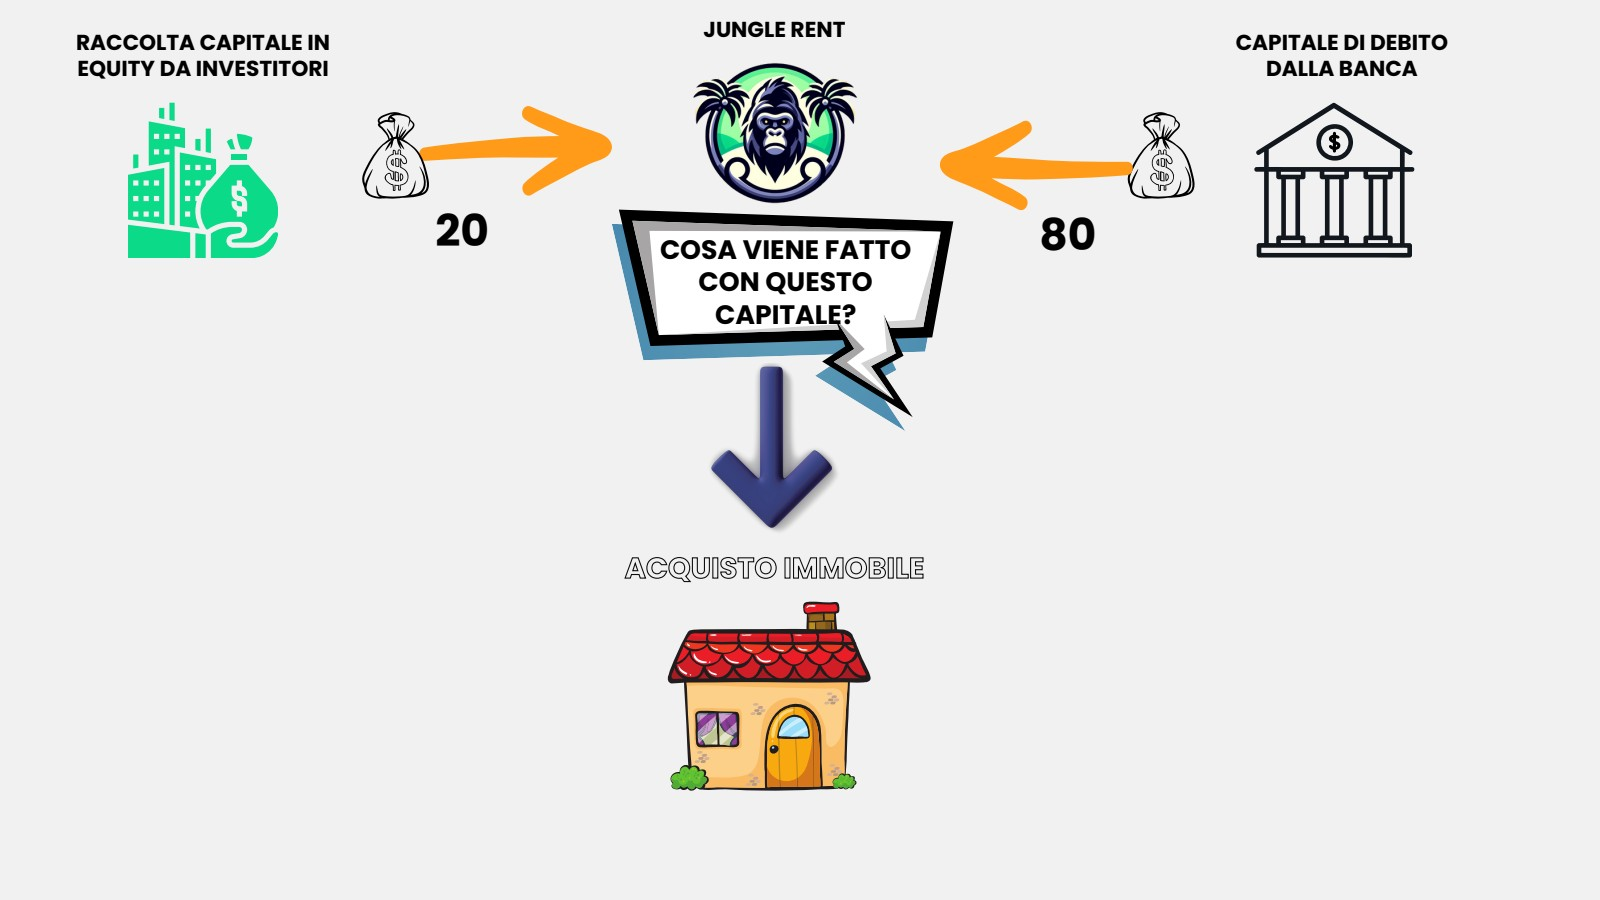
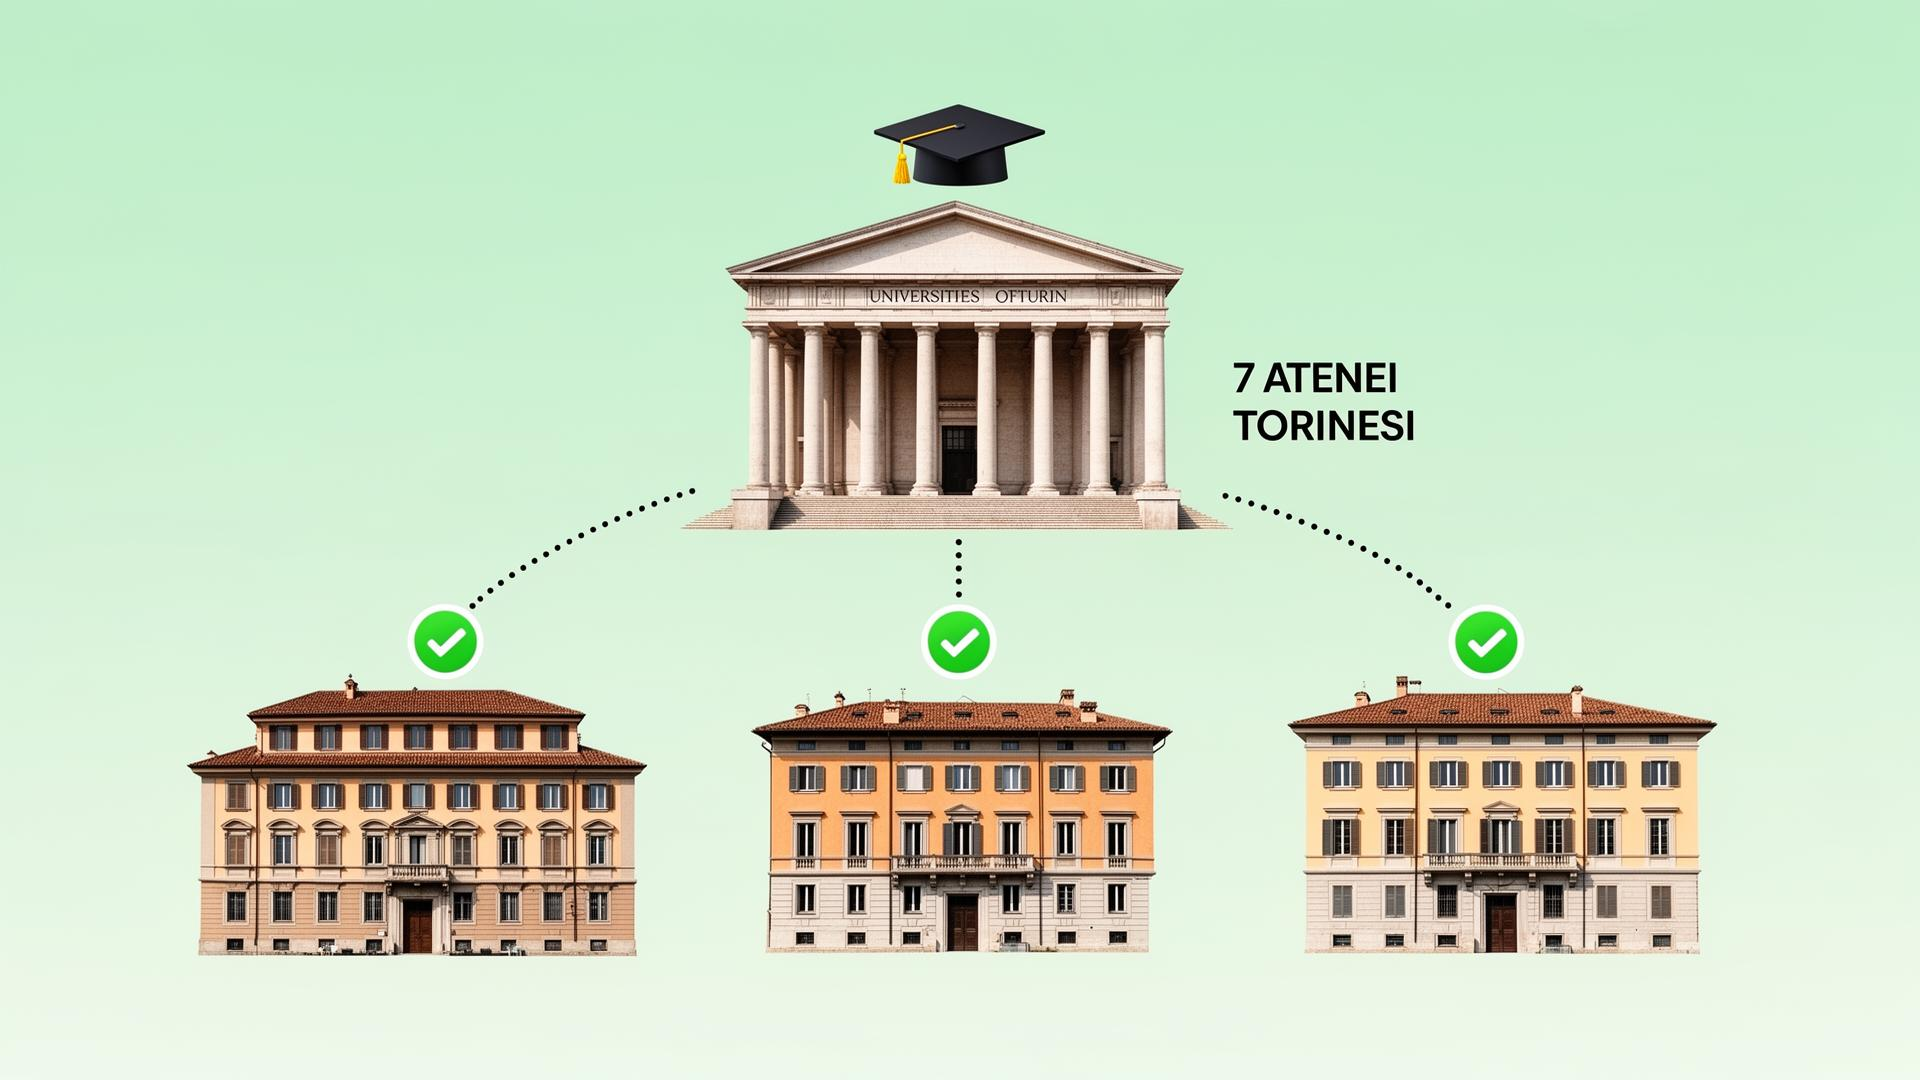
Changes

diff --git a/src/components/innovative/StepIllustration.tsx b/src/components/innovative/StepIllustration.tsx
@@ -1,6 +1,7 @@
 import { motion } from "framer-motion";
 import { useReducedMotion } from "@/hooks/useReducedMotion";
 import investIllustration from "@/assets/invest-illustration.jpg";
+import acquireIllustration from "@/assets/journey-step-acquire.jpg";
 import manageIllustration from "@/assets/journey-step-manage.jpg";
 
 interface StepIllustrationProps {
@@ -250,202 +251,23 @@ const InvestIllustration = ({ isActive, prefersReducedMotion }: { isActive: bool
   </motion.div>
 );
 
-// Step 2: ACQUISTIAMO - Premium University with connected houses
-const AcquireIllustration = ({ isActive, prefersReducedMotion }: { isActive: boolean; prefersReducedMotion: boolean }) => (
-  <motion.svg
-    viewBox="0 0 300 250"
-    className="w-full h-full max-w-[340px]"
-    initial={{ opacity: 0 }}
-    animate={isActive ? { opacity: 1 } : { opacity: 0.5 }}
-    transition={{ duration: 0.4 }}
-  >
-    <PremiumDefs />
-    
-    {/* University Building - Politecnico inspired */}
-    <motion.g
-      initial={{ y: -15, opacity: 0 }}
-      animate={isActive ? { y: 0, opacity: 1 } : {}}
-      transition={{ duration: 0.5 }}
-      filter="url(#mediumShadow)"
+// Step 2: ACQUISTIAMO - Premium image illustration
+const AcquireIllustration = ({ isActive, prefersReducedMotion }: { isActive: boolean; prefersReducedMotion: boolean }) => {
+  return (
+    <motion.div
+      className="w-full h-full flex items-center justify-center"
+      initial={{ opacity: 0, scale: 0.95 }}
+      animate={isActive ? { opacity: 1, scale: 1 } : { opacity: 0.5, scale: 0.95 }}
+      transition={{ duration: 0.4 }}
     >
-      {/* Main building base */}
-      <rect x="80" y="30" width="140" height="60" rx="2" fill="url(#cardGradient)" stroke="hsl(var(--border))" strokeWidth="1.5" />
-      
-      {/* Central tower/cupola */}
-      <rect x="130" y="8" width="40" height="22" rx="1" fill="hsl(var(--card))" stroke="hsl(var(--border))" strokeWidth="1" />
-      <path d="M 130 8 Q 150 -5 170 8" fill="hsl(var(--primary))" opacity="0.8" />
-      <circle cx="150" cy="5" r="4" fill="hsl(var(--primary))" />
-      
-      {/* Pediment */}
-      <polygon points="150,18 195,32 105,32" fill="hsl(var(--muted))" stroke="hsl(var(--border))" strokeWidth="1" />
-      
-      {/* Columns with details */}
-      {[0, 1, 2, 3, 4].map((i) => (
-        <g key={i}>
-          <rect x={95 + i * 25} y="45" width="10" height="45" fill="hsl(var(--background))" stroke="hsl(var(--border))" rx="1" />
-          {/* Column capital */}
-          <rect x={93 + i * 25} y="43" width="14" height="4" fill="hsl(var(--muted))" rx="1" />
-          {/* Column base */}
-          <rect x={93 + i * 25} y="88" width="14" height="4" fill="hsl(var(--muted))" rx="1" />
-        </g>
-      ))}
-      
-      {/* Windows on upper floor */}
-      {[0, 1, 2].map((i) => (
-        <rect key={`window-${i}`} x={100 + i * 40} y="35" width="20" height="8" fill="hsl(var(--background))" opacity="0.5" rx="1" />
-      ))}
-      
-      {/* Graduation cap */}
-      <motion.g
-        initial={{ scale: 0, rotate: -20 }}
-        animate={isActive ? { scale: 1, rotate: 0 } : {}}
-        transition={{ delay: 0.3, type: "spring" }}
-      >
-        <rect x="138" y="-2" width="24" height="4" fill="hsl(var(--primary))" />
-        <polygon points="150,-8 165,-2 135,-2" fill="hsl(var(--primary))" />
-        <circle cx="165" cy="2" r="2.5" fill="hsl(var(--primary))" />
-        <path d="M 165 2 Q 170 8 168 14" stroke="hsl(var(--primary))" strokeWidth="1.5" fill="none" />
-        {/* Tassel end */}
-        <circle cx="168" cy="14" r="1.5" fill="hsl(var(--primary))" />
-      </motion.g>
-      
-      {/* University label */}
-      <rect x="115" y="75" width="70" height="14" rx="7" fill="hsl(var(--primary))" opacity="0.1" />
-      <text x="150" y="85" textAnchor="middle" fill="hsl(var(--primary))" fontSize="8" fontWeight="bold">7 ATENEI TORINESI</text>
-    </motion.g>
-
-    {/* Pulsing radar effect from university */}
-    {!prefersReducedMotion && isActive && (
-      <motion.circle
-        cx="150"
-        cy="60"
-        r="30"
-        fill="none"
-        stroke="hsl(var(--primary))"
-        strokeWidth="1"
-        initial={{ r: 30, opacity: 0.6 }}
-        animate={{ r: 80, opacity: 0 }}
-        transition={{ duration: 2, repeat: Infinity, ease: "easeOut" }}
+      <img 
+        src={acquireIllustration} 
+        alt="Acquistiamo immobili vicino ai 7 atenei torinesi" 
+        className="w-full h-full object-contain max-w-[500px] rounded-xl"
       />
-    )}
-
-    {/* Connection lines with animated dots */}
-    <motion.g initial={{ opacity: 0 }} animate={isActive ? { opacity: 1 } : {}} transition={{ delay: 0.3 }}>
-      {[
-        { x1: 95, x2: 55, house: 0 },
-        { x1: 150, x2: 150, house: 1 },
-        { x1: 205, x2: 245, house: 2 }
-      ].map((line, i) => (
-        <g key={i}>
-          <motion.line
-            x1={line.x1} y1="95" x2={line.x2} y2="120"
-            stroke="hsl(var(--primary))"
-            strokeWidth="2"
-            strokeOpacity="0.4"
-            strokeDasharray="6 4"
-            initial={{ pathLength: 0 }}
-            animate={isActive ? { pathLength: 1 } : {}}
-            transition={{ delay: 0.4 + i * 0.15, duration: 0.4 }}
-          />
-          {/* Moving dot along line */}
-          {!prefersReducedMotion && isActive && (
-            <motion.circle
-              r="3"
-              fill="hsl(var(--primary))"
-              initial={{ opacity: 0 }}
-              animate={{
-                opacity: [0, 1, 0],
-                cx: [line.x1, line.x2],
-                cy: [95, 120]
-              }}
-              transition={{
-                delay: 0.6 + i * 0.15,
-                duration: 1,
-                repeat: Infinity,
-                repeatDelay: 2
-              }}
-            />
-          )}
-          {/* Pin icon at connection point */}
-          <motion.g
-            initial={{ scale: 0 }}
-            animate={isActive ? { scale: 1 } : {}}
-            transition={{ delay: 0.5 + i * 0.1, type: "spring" }}
-          >
-            <circle cx={line.x1} cy="95" r="6" fill="hsl(var(--primary))" opacity="0.2" />
-            <circle cx={line.x1} cy="95" r="3" fill="hsl(var(--primary))" />
-          </motion.g>
-        </g>
-      ))}
-    </motion.g>
-
-    {/* Three premium houses with checkmarks */}
-    {[
-      { x: 20, delay: 0.5 },
-      { x: 120, delay: 0.65 },
-      { x: 215, delay: 0.8 }
-    ].map((house, i) => (
-      <motion.g key={i}>
-        <PremiumHouse 
-          x={house.x} 
-          y={i === 1 ? 125 : 130} 
-          variant={i === 1 ? "main" : "medium"} 
-          scale={i === 1 ? 0.9 : 0.85}
-          isActive={isActive} 
-          delay={house.delay} 
-        />
-        
-        {/* Premium checkmark badge */}
-        <motion.g
-          initial={{ scale: 0 }}
-          animate={isActive ? { scale: 1 } : {}}
-          transition={{ delay: house.delay + 0.3, type: "spring", stiffness: 300 }}
-        >
-          <circle 
-            cx={house.x + (i === 1 ? 50 : 35)} 
-            cy={i === 1 ? 130 : 135} 
-            r="14" 
-            fill="hsl(var(--primary))" 
-            filter="url(#softShadow)"
-          />
-          <circle 
-            cx={house.x + (i === 1 ? 50 : 35)} 
-            cy={i === 1 ? 130 : 135} 
-            r="12" 
-            fill="none" 
-            stroke="white" 
-            strokeWidth="1" 
-            opacity="0.3"
-          />
-          <motion.path
-            d={`M ${house.x + (i === 1 ? 44 : 29)} ${i === 1 ? 130 : 135} L ${house.x + (i === 1 ? 48 : 33)} ${i === 1 ? 134 : 139} L ${house.x + (i === 1 ? 56 : 41)} ${i === 1 ? 126 : 131}`}
-            stroke="white"
-            strokeWidth="2.5"
-            strokeLinecap="round"
-            strokeLinejoin="round"
-            fill="none"
-            initial={{ pathLength: 0 }}
-            animate={isActive && !prefersReducedMotion ? { pathLength: 1 } : { pathLength: 1 }}
-            transition={{ delay: house.delay + 0.45, duration: 0.25 }}
-          />
-        </motion.g>
-      </motion.g>
-    ))}
-
-    {/* Label */}
-    <motion.text
-      x="150" y="225"
-      textAnchor="middle"
-      fill="hsl(var(--muted-foreground))"
-      fontSize="11"
-      initial={{ opacity: 0 }}
-      animate={isActive ? { opacity: 1 } : {}}
-      transition={{ delay: 1 }}
-    >
-      Acquistiamo immobili vicino agli atenei
-    </motion.text>
-  </motion.svg>
-);
+    </motion.div>
+  );
+};
 
 // Step 3: GESTIAMO - Premium image illustration
 const ManageIllustration = ({ isActive, prefersReducedMotion }: { isActive: boolean; prefersReducedMotion: boolean }) => {
